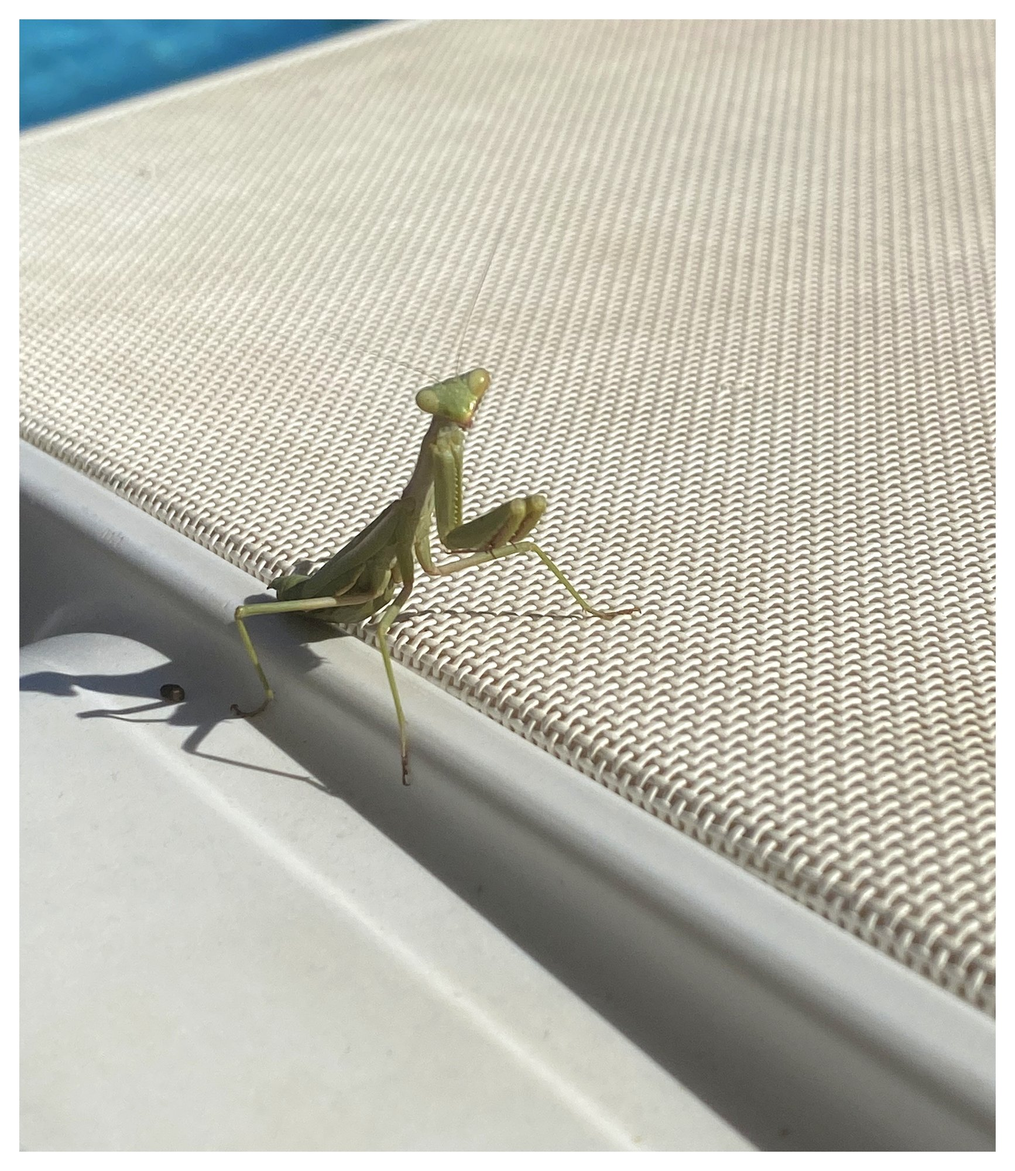
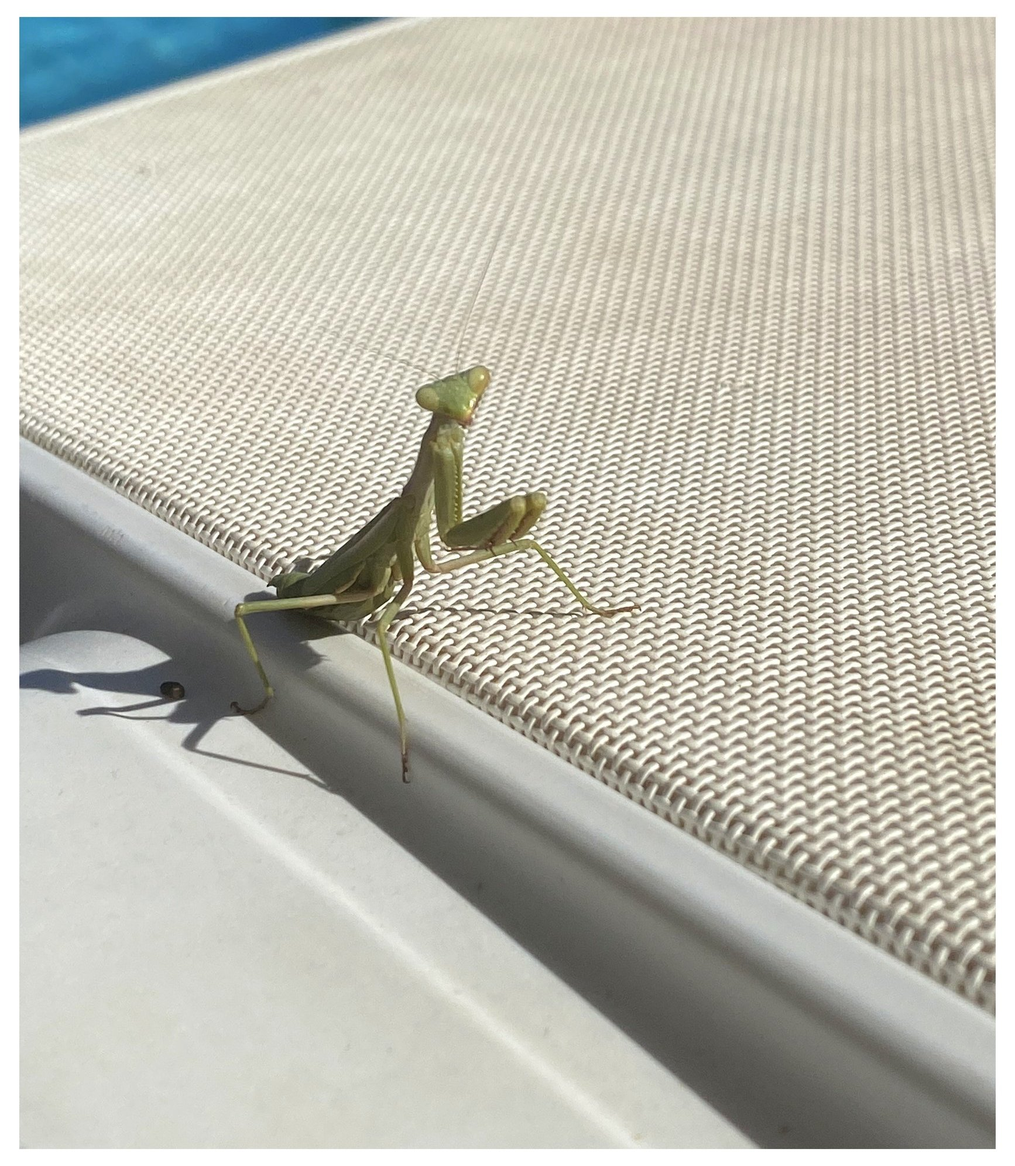
Snap column alignment: ratio-crop mantis, force column breaks
Cropped mantis 8px so col1+col2 aspect ratios match exactly.
Added break-before:column on heron and seagull to lock column assignment.
Restored eels to original dimensions.

diff --git a/index.html b/index.html
@@ -34,7 +34,7 @@
       <img src="photos/comedy-wildlife/garden_eels_peek.jpg" alt="Garden eels peeking from the sand" loading="lazy">
     </article>
 
-    <article class="gallery-item" data-category="comedy-wildlife"
+    <article class="gallery-item col-break" data-category="comedy-wildlife"
              data-title="Open" data-meta="Comedy Wildlife">
       <img src="photos/comedy-wildlife/heron_open_sign.jpg" alt="Heron standing under an Open sign" loading="lazy">
     </article>
@@ -44,7 +44,7 @@
       <img src="photos/comedy-wildlife/mantis_lounger.jpg" alt="Praying mantis on a pool lounger" loading="lazy">
     </article>
 
-    <article class="gallery-item" data-category="comedy-wildlife"
+    <article class="gallery-item col-break" data-category="comedy-wildlife"
              data-title="Harbour Master" data-meta="Comedy Wildlife">
       <img src="photos/comedy-wildlife/seagull_marina.jpg" alt="Seagull at a marina" loading="lazy">
     </article>

diff --git a/style.css b/style.css
@@ -118,6 +118,11 @@ body {
   line-height: 0;
 }
 
+/* Force column breaks to control which images land in which column */
+.gallery-item.col-break {
+  break-before: column;
+}
+
 .gallery-item img {
   display: block;
   width: 100%;
